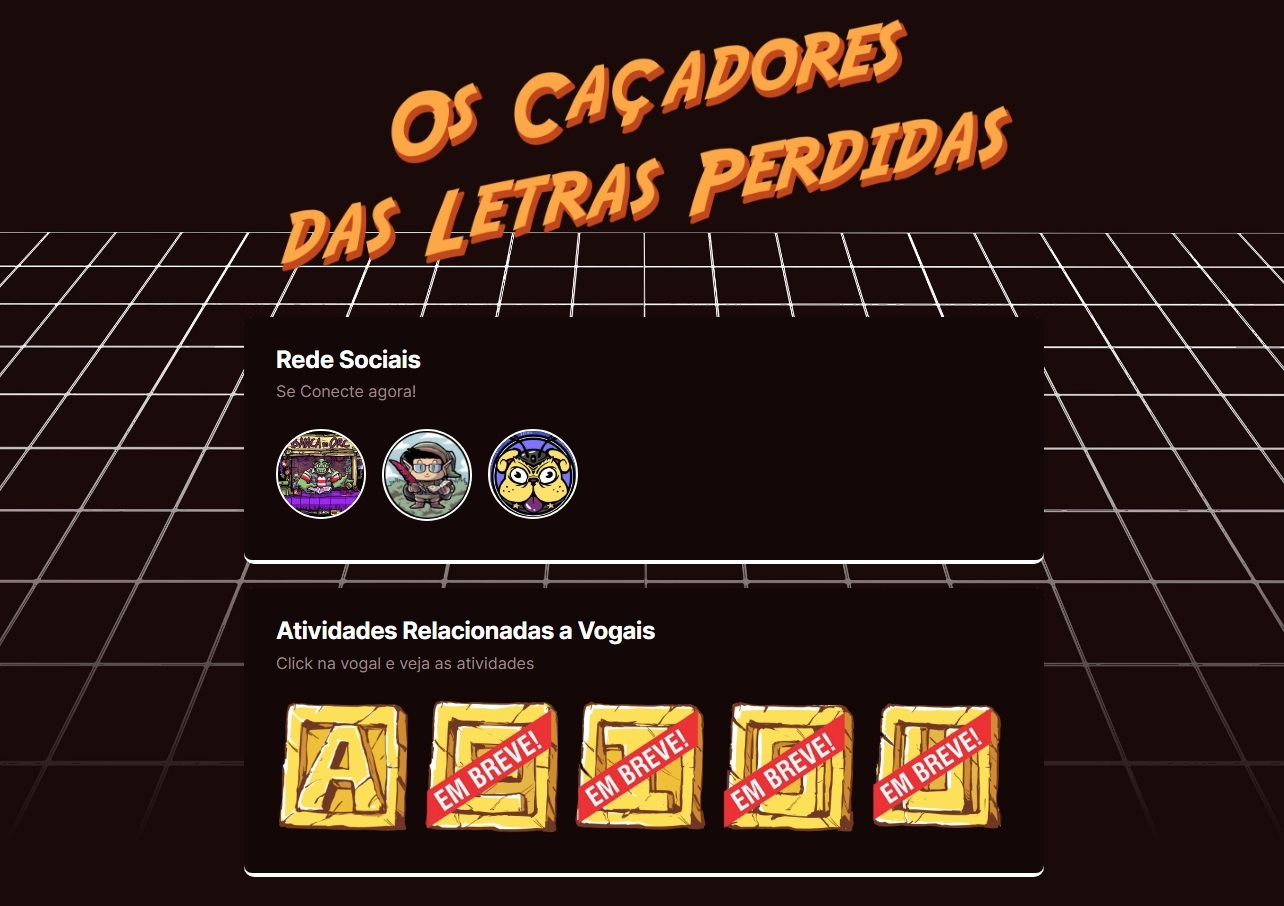
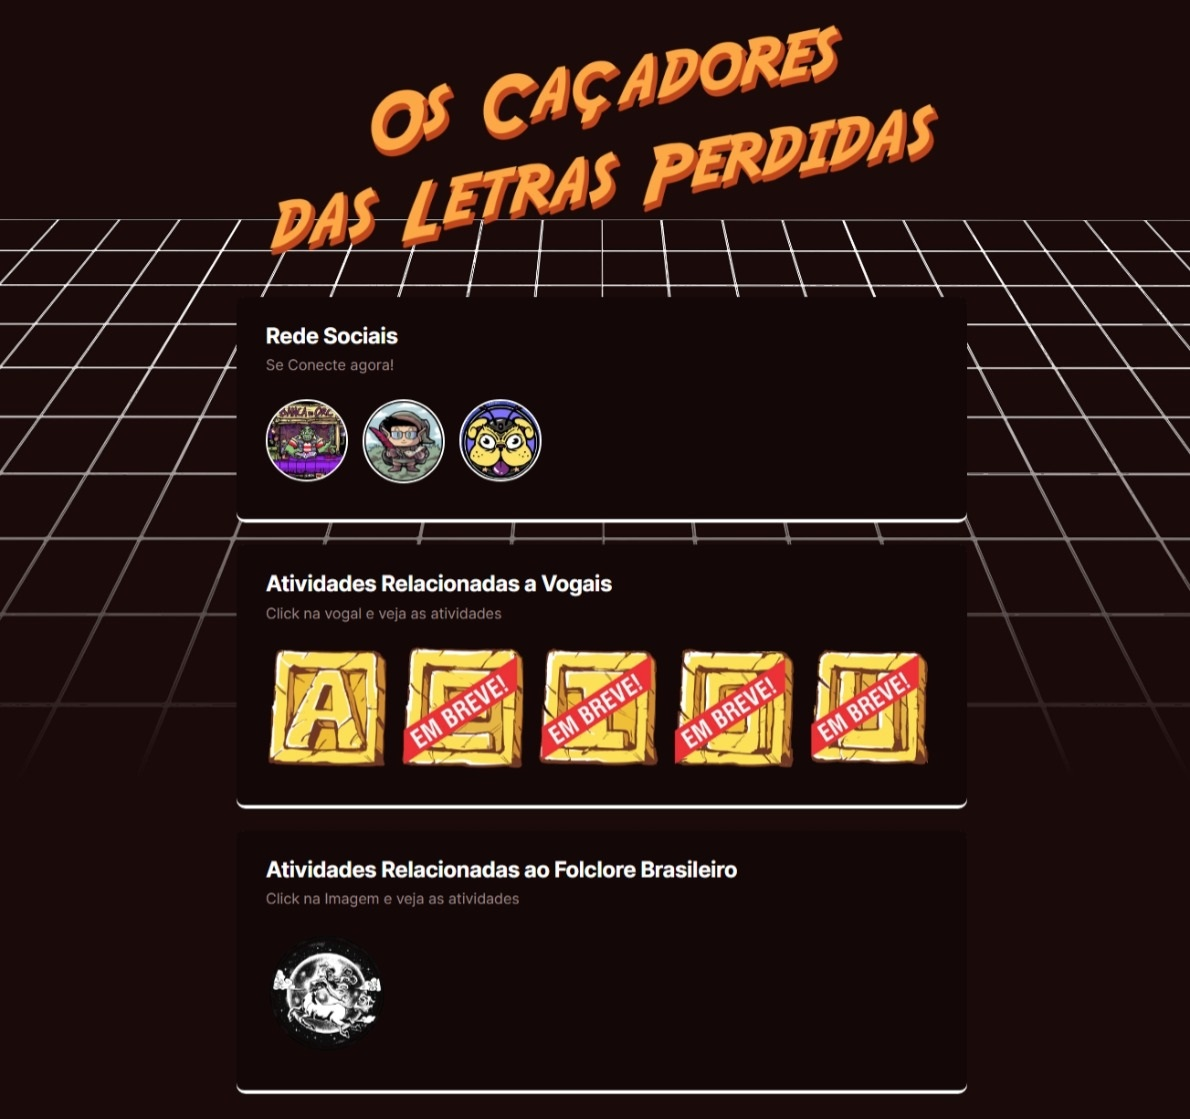
Adição da pagina dos Muchileiros coreção de atividade De um colorido bem bonito a aranha

diff --git a/PageMdJ.html b/PageMdJ.html
@@ -1,0 +1,132 @@
+<!DOCTYPE html>
+
+<html lang="pt-br" xmlns="http://www.w3.org/1999/xhtml">
+<head>
+    
+    <link rel="preconnect" href="https://fonts.googleapis.com">
+    <link rel="preconnect" href="https://fonts.gstatic.com" crossorigin>
+    <link href="https://fonts.googleapis.com/css2?family=Inter:wght@100..900&display=swap" rel="stylesheet">
+
+    <meta charset="utf-8" />
+    <meta neme="viewport" content="width=device-width, initial-scale=1.0" />
+        <title>Atividades Vogal A</title>
+
+    <link rel="stylesheet" href="./styles.css" />
+
+</head>
+<body>
+
+    <header>
+        <div class="cabecalho_Atividades">
+            <img src="./assets/imagens relacionadas/MdJ.png"
+                 alt="Imagem da Logo Mchileiros de Jaguaruana uma mulher centauro uma cavolo onde o local que coresponde a cabeça é o corpo de uma mmulher" />
+        </div>
+    </header>
+    
+    <main>
+        <section>
+            <div>
+                <h2>Menu</h2>
+                <p>Locais</p>
+                <ul class="Menu">
+                    <li>
+                        <a href="./index.html">
+                            <svg xmlns="http://www.w3.org/2000/svg" x="0px" y="0px" width="90" height="90" viewBox="0 0 50 50"
+                                 style="fill:#FFFFFF;">
+                                <path d="M 25 1.0507812 C 24.7825 1.0507812 24.565859 1.1197656 24.380859 1.2597656 L 1.3808594 19.210938 C 0.95085938 19.550938 0.8709375 20.179141 1.2109375 20.619141 C 1.5509375 21.049141 2.1791406 21.129062 2.6191406 20.789062 L 4 19.710938 L 4 46 C 4 46.55 4.45 47 5 47 L 19 47 L 19 29 L 31 29 L 31 47 L 45 47 C 45.55 47 46 46.55 46 46 L 46 19.710938 L 47.380859 20.789062 C 47.570859 20.929063 47.78 21 48 21 C 48.3 21 48.589063 20.869141 48.789062 20.619141 C 49.129063 20.179141 49.049141 19.550938 48.619141 19.210938 L 25.619141 1.2597656 C 25.434141 1.1197656 25.2175 1.0507812 25 1.0507812 z M 35 5 L 35 6.0507812 L 41 10.730469 L 41 5 L 35 5 z"></path>
+                            </svg>
+                        </a>
+                    </li>
+                    <li>
+                        <a href="./PageA.html">
+                            <img src="./assets\imagens relacionadas\VOGAIS_A.png"
+                                 alt="imagem da vogal A" />
+                        </a>
+                    </li>
+                    <li>
+                        <a href="">
+                            <img src="./assets\imagens relacionadas\VOGAIS_E2.png"
+                                 alt="imagem da vogal E com selo breve" />
+                        </a>
+                    </li>
+                    <li>
+                        <a href="">
+                            <img src="./assets\imagens relacionadas\VOGAIS_I2.png"
+                                 alt="imagem da vogal I com selo breve" />
+                        </a>
+                    </li>
+                    <li>
+                        <a href="">
+                            <img src="./assets\imagens relacionadas\VOGAIS_O2.png"
+                                 alt="imagem da vogal O com selo breve" />
+                        </a>
+                    </li>
+                    <li>
+                        <a href="">
+                            <img src="./assets\imagens relacionadas\VOGAIS_U2.png"
+                                 alt="imagem da vogal U com selo breve" />
+                        </a>
+                    </li>
+                </ul>
+            </div>
+        </section>
+        <section>
+            <div>
+                <h2>Atividades Persoajens do Jogo Mochileiros de Jaguaruana</h2>
+                <p>Click na Imagem e Abra a Atividade</p>
+                <ul class="Atividades">
+                    <li>
+                        <a href="./assets\Atividade\MdJ\De um colorido bem bonito na Menina.jpg" target="_blank">
+                            <img src="./assets\Atividade\MdJ\De um colorido bem bonito na Menina.jpg"
+                                 alt="De um colorido bem bonito na Menina" />
+                        </a>
+                    </li>
+                    <li>
+                        <a href="./assets\Atividade\MdJ\De um colorido bem bonito no bicho papão.jpg" target="_blank">
+                            <img src="./assets\Atividade\MdJ\De um colorido bem bonito no bicho papão.jpg"
+                                 alt="De um colorido bem bonito no bicho papão" />
+                        </a>
+                    </li>
+                    <li>
+                        <a href="./assets\Atividade\MdJ\De um colorido bom bonito na Cuca.jpg" target="_blank">
+                            <img src="./assets\Atividade\MdJ\De um colorido bom bonito na Cuca.jpg"
+                                 alt="De um colorido bom bonito na Cucao" />
+                        </a>
+                    </li>
+                    <li>
+                        <a href="./assets\Atividade\MdJ\De um colorido bom bonito na Mula sem cabeça.jpg" target="_blank">
+                            <img src="./assets\Atividade\MdJ\De um colorido bom bonito na Mula sem cabeça.jpg"
+                                 alt="De um colorido bom bonito na Mula sem cabeça" />
+                        </a>
+                    </li>
+                    <li>
+                        <a href="./assets\Atividade\MdJ\De um colorido bom bonito no Boitata.jpg" target="_blank">
+                            <img src="./assets\Atividade\MdJ\De um colorido bom bonito no Boitata.jpg"
+                                 alt="De um colorido bom bonito no Boitata" />
+                        </a>
+                    </li>
+                    <li>
+                        <a href="./assets\Atividade\MdJ\De um colorido bom bonito No Curupira.jpg" target="_blank">
+                            <img src="./assets\Atividade\MdJ\De um colorido bom bonito No Curupira.jpg"
+                                 alt="De um colorido bom bonito No Curupira" />
+                        </a>
+                    </li>
+                    <li>
+                        <a href="./assets\Atividade\MdJ\De um colorido bom bonito no saci.jpg" target="_blank">
+                            <img src="./assets\Atividade\MdJ\De um colorido bom bonito no saci.jpg"
+                                 alt="De um colorido bom bonito no saci" />
+                        </a>
+                    </li>
+                    <li>
+                        <a href="./assets\Atividade\MdJ\De um colorido bom bonitono menino.jpg" target="_blank">
+                            <img src="./assets\Atividade\MdJ\De um colorido bom bonitono menino.jpg"
+                                 alt="De um colorido bom bonitono menino" />
+                        </a>
+                    </li>
+                </ul>
+            </div>
+        </section>
+    </main>
+
+</body>
+</html>

diff --git a/PageA.html b/PageA.html
@@ -17,7 +17,7 @@
 <body>
 
     <header>
-        <div class="cabecalhoVogais">
+        <div class="cabecalho_Atividades">
             <img src="./assets/imagens relacionadas/VOGAIS_A.png"
                  alt="Imagem da Vogal A" />
         </div>
@@ -31,19 +31,24 @@
                 <ul class="Menu">
                     <li>
                         <a href="./index.html">
-                            <svg xmlns="http://www.w3.org/2000/svg" x="0px" y="0px" width="100" height="100" viewBox="0 0 50 50"
+                            <svg xmlns="http://www.w3.org/2000/svg" x="0px" y="0px" width="90" height="90" viewBox="0 0 50 50"
                                  style="fill:#FFFFFF;">
                                 <path d="M 25 1.0507812 C 24.7825 1.0507812 24.565859 1.1197656 24.380859 1.2597656 L 1.3808594 19.210938 C 0.95085938 19.550938 0.8709375 20.179141 1.2109375 20.619141 C 1.5509375 21.049141 2.1791406 21.129062 2.6191406 20.789062 L 4 19.710938 L 4 46 C 4 46.55 4.45 47 5 47 L 19 47 L 19 29 L 31 29 L 31 47 L 45 47 C 45.55 47 46 46.55 46 46 L 46 19.710938 L 47.380859 20.789062 C 47.570859 20.929063 47.78 21 48 21 C 48.3 21 48.589063 20.869141 48.789062 20.619141 C 49.129063 20.179141 49.049141 19.550938 48.619141 19.210938 L 25.619141 1.2597656 C 25.434141 1.1197656 25.2175 1.0507812 25 1.0507812 z M 35 5 L 35 6.0507812 L 41 10.730469 L 41 5 L 35 5 z"></path>
                             </svg>
-
                         </a>
                     </li>
-        </section>
+                    <li>
+                        <a href="./PageMdJ.html">
+                            <img src="./assets\imagens relacionadas\MdJ.png"
+                                 alt="imagem da Logo Mochileiros de Jaguaruana" />
+                        </a>
+                    </li>
+</section>
         <section>
             <div>
                 <h2>Atividades Vogal A</h2>
                 <p>Click na Imagem e Abra a Atividade</p>
-                <ul class="Atividades_Vogais">
+                <ul class="Atividades">
                     <li>
                         <a href="./assets\Atividade\A\Aranha Cubra o pontilhado da vogal A.jpg" target="_blank">
                             <img src="./assets\Atividade\A\Aranha Cubra o pontilhado da vogal A.jpg"

diff --git a/index.html b/index.html
@@ -47,12 +47,12 @@
                                      alt="imagem Logo Toonizando" />
                             </a>
                         </li>
-</section>
+            </section>
             <section>
                 <div>
                     <h2>Atividades Relacionadas a Vogais</h2>
                     <p>Click na vogal e veja as atividades</p>
-                    <ul class="Atividades_Relacionada_Vogais">
+                    <ul class="Atividades_Relacionada">
                         <li>
                             <a href="./PageA.html">
                                 <img src="./assets\imagens relacionadas\VOGAIS_A.png"
@@ -83,6 +83,20 @@
                                      alt="imagem da vogal U com selo breve" />
                             </a>
                         </li>
+                    </ul>
+                </div>
+            </section>
+            <section>
+                <div>
+                    <h2>Atividades Relacionadas ao Folclore Brasileiro</h2>
+                    <p>Click na Imagem e veja as atividades</p>
+                    <ul class="Atividades_Relacionada">
+                        <li>
+                            <a href="./PageMdJ.html">
+                                <img src="./assets\imagens relacionadas\MdJ.png"
+                                     alt="imagem da Logo Mochileiros de Jaguaruana" />
+                            </a>
+                        </li>                        
                     </ul>
                 </div>
             </section>

diff --git a/styles.css b/styles.css
@@ -30,7 +30,7 @@ header{
         margin-top: 24px;
     }
 
-.cabecalhoVogais img{
+.cabecalho_Atividades img {
     text-align: center;
     width: 100px;
     margin-top: 24px;
@@ -89,22 +89,18 @@ section h2 {
     border: 2px solid #ffffff;    
 }
 
-.Atividades_Relacionada_Vogais img {
+.Atividades_Relacionada img {
     position: center;
     width: 133px;
     border-radius: 8px;
 }
 
-.Menu {
-    max-width: 100px;
-}
-
-.Menu img {    
-    border-radius: 50%;
-    width: 70px;
-    border: 2px solid #ffffff;
-}
-.Atividades_Vogais img {
+    .Menu img {
+        width: 90px;
+        position: center;
+        border-radius: 8px;
+    }
+.Atividades img {
     position: center;
     width: 170px;
     border-radius: 8px;
